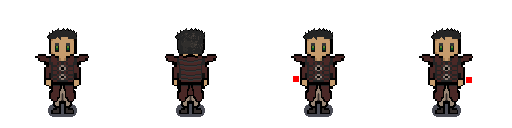
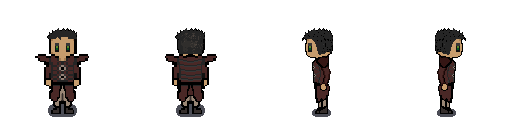
player animations

Changed region(s): [[0.8125, 0.2188, 0.9375, 0.9062], [0.5625, 0.2812, 0.6875, 0.9375]]

diff --git a/Game/src/entities/Player.java b/Game/src/entities/Player.java
@@ -36,32 +36,40 @@ public class Player extends Creature {
 			walking = true;
 			this.lastV = (this.lastV==0) ? lastV : this.lastV;
 			resetLastV = false;
-			if(this.lastV > this.lastH)
+			if(this.lastV > this.lastH) {
 				facing = Direction.DOWN;
+				this.animation = AssetManager.playerDown;
+			}
 			movePlayer(Direction.DOWN);
 		}
 		if(Game.getHandler().getKeyManager().getKeyPressed(KeyEvent.VK_UP)) {	
 			walking = true;
 			this.lastV = (this.lastV==0) ? lastV : this.lastV;
 			resetLastV = false;
-			if(this.lastV > this.lastH)
+			if(this.lastV > this.lastH) {
 				facing = Direction.UP;
+				this.animation = AssetManager.playerUp;				
+			}
 			movePlayer(Direction.UP);
 		}
 		if(Game.getHandler().getKeyManager().getKeyPressed(KeyEvent.VK_RIGHT)) {
 			walking = true;	
 			this.lastH = (this.lastH==0) ? lastH : this.lastH;
 			resetLastH = false;
-			if(this.lastV < this.lastH)
+			if(this.lastV < this.lastH) {
 				facing = Direction.RIGHT;
+				this.animation = AssetManager.playerRight;	
+			}
 			movePlayer(Direction.RIGHT);
 		}
 		if(Game.getHandler().getKeyManager().getKeyPressed(KeyEvent.VK_LEFT)) {	
 			walking = true;	
 			this.lastH = (this.lastH==0) ? lastH : this.lastH;
 			resetLastH = false;
-			if(this.lastV < this.lastH)
+			if(this.lastV < this.lastH) {
 				facing = Direction.LEFT;
+				this.animation = AssetManager.playerLeft;
+			}
 			movePlayer(Direction.LEFT);	
 		}
 		if(resetLastH)
@@ -76,31 +84,29 @@ public class Player extends Creature {
 		
 		if(d == Direction.UP && !CollisionManager.collides(this, Direction.UP, speed)) {
 			this.y = Math.max(0,this.y-speed);
-			this.animation = AssetManager.playerUp;
 		}
 		if(d == Direction.DOWN && !CollisionManager.collides(this, Direction.DOWN, speed)) {
 			this.y = Math.min(
 						Game.getHandler().getWorldManager().getCurrentWorld().getPixelHeight() - height,
-						this.y+speed);	
-			this.animation = AssetManager.playerDown;	
+						this.y+speed);		
 		}
 		if(d == Direction.LEFT && !CollisionManager.collides(this, Direction.LEFT, speed)) {
-			this.x = Math.max(0,this.x-speed);	
-//			this.animation = AssetManager.playerLeft;	
+			this.x = Math.max(0,this.x-speed);		
 		}
 		if(d == Direction.RIGHT && !CollisionManager.collides(this, Direction.RIGHT, speed)) {
 			this.x = Math.min(
 						Game.getHandler().getWorldManager().getCurrentWorld().getPixelWidth() - width,
-						this.x+speed);	
-//			this.animation = AssetManager.playerRight;		
+						this.x+speed);		
 		}
 	}
 
 	@Override
 	protected void render() {
 		Graphics g = Game.getHandler().getGraphics();
+		g.setColor(Color.cyan);
+		g.drawString("facing: "+facing, 100, 100);
 		BufferedImage renderPlayer = null;
-		if(walking == false || facing == Direction.LEFT || facing == Direction.RIGHT) {
+		if(walking == false) {
 			if(facing == Direction.DOWN)
 				renderPlayer = AssetManager.playerIdleDown;
 			if(facing == Direction.UP)

diff --git a/Game/src/assets/AssetManager.java b/Game/src/assets/AssetManager.java
@@ -20,7 +20,7 @@ public class AssetManager {
 	public static BufferedImage grassTile, dirtTile;
 	public static BufferedImage playerIdleUp, playerIdleDown, playerIdleLeft, playerIdleRight;
 	public static Animation tree;
-	public static Animation playerDown, playerUp;
+	public static Animation playerDown, playerUp, playerLeft, playerRight;
 	
 	public AssetManager() {
 		grassTile = LoadImage("/grass1.png");
@@ -49,6 +49,22 @@ public class AssetManager {
 		playerUp = new Animation(
 					makeTransparent(
 							LoadImage("/playerUp.png"),
+							new Color(255, 255, 255)
+					),
+					0.2, 128, 128
+				);
+		
+		playerLeft = new Animation(
+					makeTransparent(
+							LoadImage("/playerLeft.png"),
+							new Color(255, 255, 255)
+					),
+					0.2, 128, 128
+				);
+		
+		playerRight = new Animation(
+					makeTransparent(
+							LoadImage("/playerRight.png"),
 							new Color(255, 255, 255)
 					),
 					0.2, 128, 128
